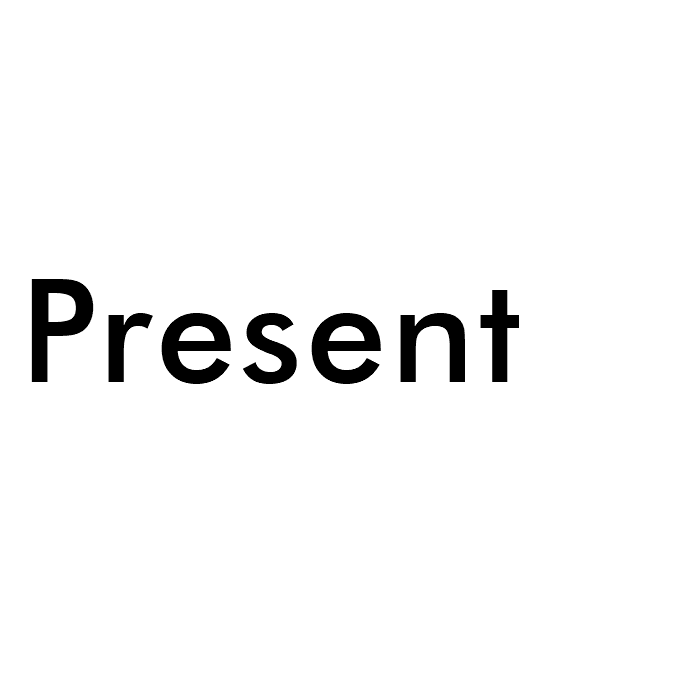
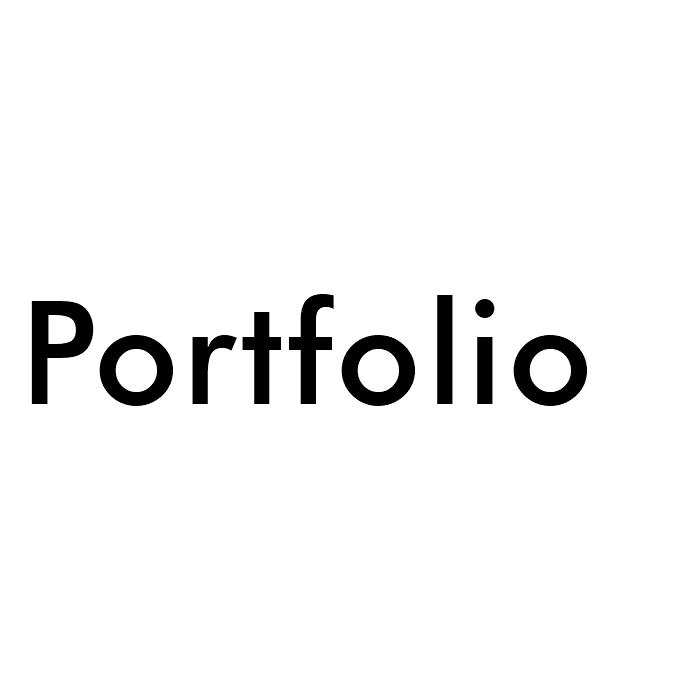
2

Changed region(s): [[0.03, 0.39, 0.84, 0.6], [0.03, 0.54, 0.09, 0.6]]

diff --git a/index.html b/index.html
@@ -33,7 +33,7 @@ if(typeof Muse == "undefined") window.Muse = {}; window.Muse.assets = {"required
      <div class="grpelem" id="u22924"><!-- simple frame --></div>
     </div>
     <a class="nonblock nontext grpelem" id="u22933-7" href="lab-kill-lab-2020.html"><!-- rasterized frame --><img class="temp_no_img_src" id="u22933-7_img" alt="&nbsp;Recent Work" width="349" height="349" data-orig-src="images/u22933-7.png?crc=3899079169" data-hidpi-src="images/u22933-7_2x.png?crc=274800434" src="images/blank.gif?crc=4208392903"/></a>
-    <a class="nonblock nontext grpelem" id="u22940-5" href="catalog.html"><!-- rasterized frame --><img class="temp_no_img_src" id="u22940-5_img" alt="&nbsp;Present" width="350" height="350" data-orig-src="images/u22940-5.png?crc=4123068583" data-hidpi-src="images/u22940-5_2x.png?crc=3956790721" src="images/blank.gif?crc=4208392903"/></a>
+    <a class="nonblock nontext grpelem" id="u22940-5" href="catalog.html"><!-- rasterized frame --><img class="temp_no_img_src" id="u22940-5_img" alt="&nbsp;Portfolio" width="350" height="350" data-orig-src="images/u22940-5.png?crc=129977929" data-hidpi-src="images/u22940-5_2x.png?crc=448538050" src="images/blank.gif?crc=4208392903"/></a>
     <a class="nonblock nontext grpelem" id="u22946-7" href="postcard-project.html"><!-- rasterized frame --><img class="temp_no_img_src" id="u22946-7_img" alt="&nbsp;On Schedule" width="350" height="350" data-orig-src="images/u22946-7.png?crc=502615944" data-hidpi-src="images/u22946-7_2x.png?crc=185645728" src="images/blank.gif?crc=4208392903"/></a>
     <img class="grpelem temp_no_img_src" id="u24096-4" alt="ALISON_SHIUE" width="1302" height="223" data-orig-src="images/u24096-4.png?crc=4273665313" data-hidpi-src="images/u24096-4_2x.png?crc=4251701934" src="images/blank.gif?crc=4208392903"/><!-- rasterized frame -->
     <div class="verticalspacer" data-offset-top="716" data-content-above-spacer="716" data-content-below-spacer="363"></div>
@@ -43,7 +43,7 @@ if(typeof Muse == "undefined") window.Muse = {}; window.Muse.assets = {"required
    <div class="clearfix temp_no_id" data-orig-id="page"><!-- group -->
     <span class="clearfix grpelem placeholder" data-placeholder-for="u22930_content"><!-- placeholder node --></span>
     <a class="nonblock nontext grpelem temp_no_id" href="lab-kill-lab-2020.html" data-orig-id="u22933-7"><!-- rasterized frame --><img class="temp_no_id temp_no_img_src" alt="&nbsp;Recent Work" width="349" height="349" data-orig-src="images/u22933-72.png?crc=3899079169" data-hidpi-src="images/u22933-7_2x2.png?crc=274800434" data-orig-id="u22933-7_img" src="images/blank.gif?crc=4208392903"/></a>
-    <a class="nonblock nontext grpelem temp_no_id" href="catalog.html" data-orig-id="u22940-5"><!-- rasterized frame --><img class="temp_no_id temp_no_img_src" alt="&nbsp;Present" width="350" height="350" data-orig-src="images/u22940-52.png?crc=4123068583" data-hidpi-src="images/u22940-5_2x2.png?crc=3956790721" data-orig-id="u22940-5_img" src="images/blank.gif?crc=4208392903"/></a>
+    <a class="nonblock nontext grpelem temp_no_id" href="catalog.html" data-orig-id="u22940-5"><!-- rasterized frame --><img class="temp_no_id temp_no_img_src" alt="&nbsp;Portfolio" width="350" height="350" data-orig-src="images/u22940-52.png?crc=129977929" data-hidpi-src="images/u22940-5_2x2.png?crc=448538050" data-orig-id="u22940-5_img" src="images/blank.gif?crc=4208392903"/></a>
     <a class="nonblock nontext grpelem temp_no_id" href="postcard-project.html" data-orig-id="u22946-7"><!-- rasterized frame --><img class="temp_no_id temp_no_img_src" alt="&nbsp;On Schedule" width="350" height="350" data-orig-src="images/u22946-72.png?crc=502615944" data-hidpi-src="images/u22946-7_2x2.png?crc=185645728" data-orig-id="u22946-7_img" src="images/blank.gif?crc=4208392903"/></a>
     <img class="grpelem temp_no_id temp_no_img_src" alt="ALISON_SHIUE" width="1302" height="223" data-orig-src="images/u24096-42.png?crc=4273665313" data-hidpi-src="images/u24096-4_2x2.png?crc=4251701934" data-orig-id="u24096-4" src="images/blank.gif?crc=4208392903"/><!-- rasterized frame -->
     <div class="verticalspacer" data-offset-top="1018" data-content-above-spacer="1018" data-content-below-spacer="62"></div>

diff --git a/catalog.html b/catalog.html
@@ -13,7 +13,7 @@ document.documentElement.className = document.documentElement.className.replace(
 if(typeof Muse == "undefined") window.Muse = {}; window.Muse.assets = {"required":["museutils.js", "museconfig.js", "jquery.watch.js", "require.js", "catalog.css"], "outOfDate":[]};
 </script>
   
-  <title>catalog</title>
+  <title>Catalog</title>
   <!-- CSS -->
   <link rel="stylesheet" type="text/css" href="css/site_global.css?crc=444006867"/>
   <link rel="stylesheet" type="text/css" href="css/catalog.css?crc=95514938" id="pagesheet"/>
